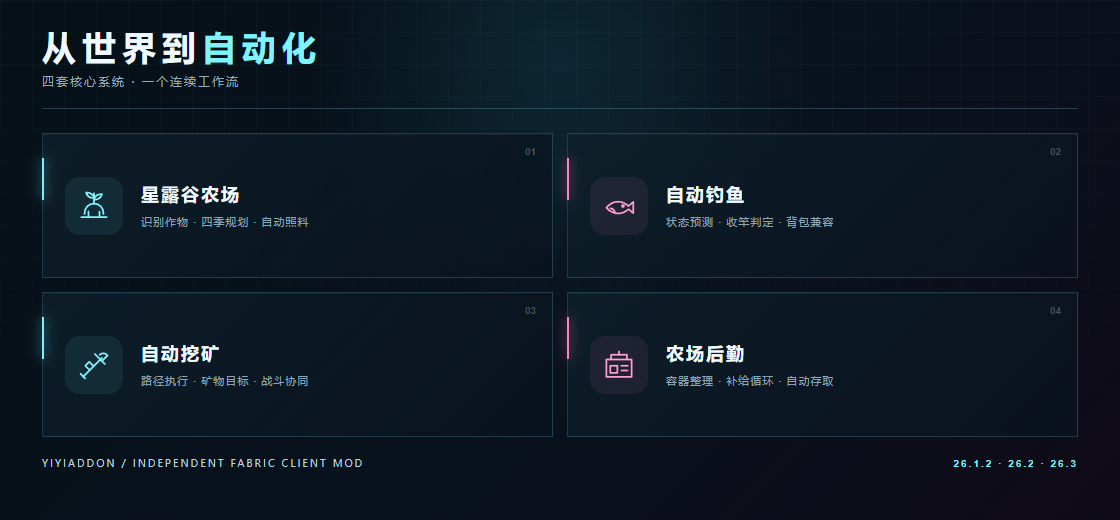
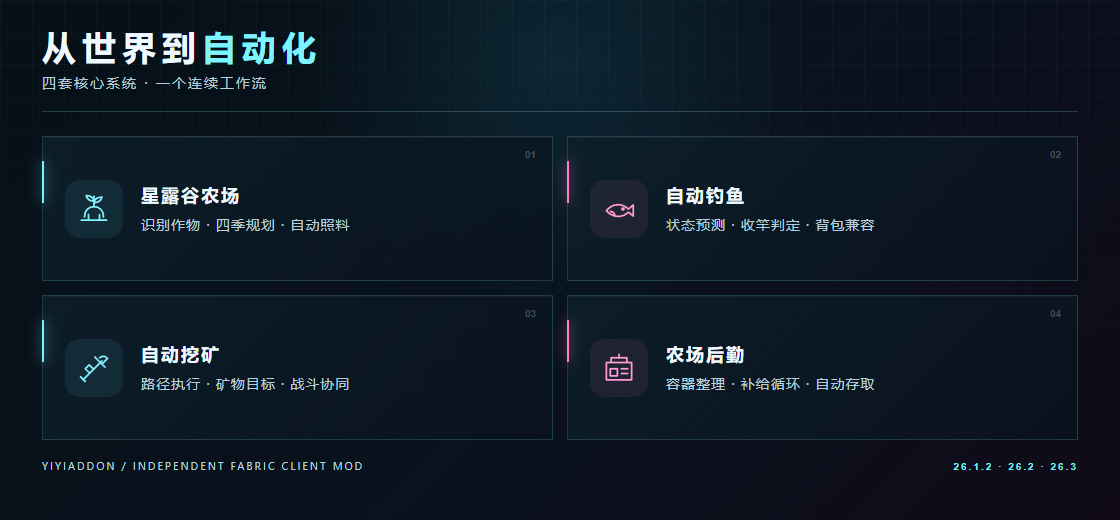
更新首页与 1.21.11 适配预告

diff --git a/功能指南.md b/功能指南.md
@@ -1,12 +1,32 @@
 # 功能指南
 
-![yiyiaddon](展示资源/homepage-20261023/brand.svg?v=1.1-3a1350d9)
+![核心系统概览](展示资源/yiyiaddon-1.0-beta4-cover-2d.png)
 
-这里介绍主要功能与使用方式。先按游戏版本安装，再在目标服务器配置和验证；各模块的前置条件以游戏内说明为准。
+概念图用于介绍功能，不是实机截图。具体设置和当前限制以游戏内模块说明为准。
 
-**下载范围**：当前正式版 1.1 提供 Minecraft 26.1.2、26.2、26.3 三个独立 JAR；配套 Fabric API、运行环境与限制见[正式发布页](https://github.com/fxjcangku/yiyiaddon/releases/latest)。1.2 目前仅有更新预告。
+**版本范围**：1.0 支持 Minecraft 26.1.2、26.2 与 26.3，三线均为正常维护，各自使用对应安装包；配套 Fabric API 与下载状态见[版本与兼容](版本说明.md)。
 
-本页通知栏和附魔场景的既有验证记录对应 Beta9.1 的 26.1.2 / 26.2 单人客户端与最终安装包，不扩展为 26.3 的验收记录；原服务器业务和长期挂机未验。
+本页通知栏和附魔场景的验证记录来自 Beta9.1 阶段的 26.1.2 / 26.2 单人客户端与最终安装包，正式版 1.0 沿用这些结果；不扩展为 26.3 的验收记录，原服务器业务和长期挂机未验。
+
+## 手动记录问题日志（2026-10-26 本地交付包）
+
+每个模块都可以用自己的指令开启、停止取证，格式与星露谷农场一致。请分两次输入：先开始记录，复现问题，再停止保存。
+
+| 模块 | 开始记录 | 停止并保存 |
+| --- | --- | --- |
+| 星露谷农场 | `.stardew 取证 开始` | `.stardew 取证 停止` |
+| 星露谷钓鱼 | `.fish 取证 开始` | `.fish 取证 停止` |
+| 自动挖矿（含种子挖矿） | `.wk 取证 开始` | `.wk 取证 停止` |
+| 自动附魔 | `.fumo 取证 开始` | `.fumo 取证 停止` |
+| 自动找箱 | `.autochest 取证 开始` | `.autochest 取证 停止` |
+
+其余模块同样在原指令后加 `取证 开始` 或 `取证 停止`；没有原指令的模块使用模块 ID，可在 `.help` 查看并用 Tab 补全。若已修改客户端指令前缀，使用自己的前缀。
+
+记录开关不改变模块开关。模块未启用时也可以先开始取证，再手动开启模块复现。停止后等待文件保存回执：聊天的服务器信息区域会显示 ZIP 文件名和可点击的 `【日志目录】`。只有成功写出文件才显示保存成功；取证提示是本地消息，不会发给其他玩家。
+
+将整个 ZIP 私下反馈。包内含中文摘要、版本与会话信息、详细事件：可对照任务阶段、目标、重试、扫描结果、补水、移动输入、视角、碰撞、路径、背包与菜单，以及发送动作和服务器实际反馈。请求已发送不等于服务器已完成；摘要没有失败文字也不表示一定没有 Bug。日志有容量与截断提示，密码及认证参数隐藏，服务器、坐标和相关物品仍会保留。
+
+普通模块日志在游戏实例的 `logs/module-traces/<模块ID>/`，农场仍在 `StardewFarm/debug/farm/`。旧钓鱼专用 debug 等入口继续保留。本节对应本地交付包，尚未替换公开下载附件。
 
 ## 新版界面与目标选择
 
@@ -14,26 +34,32 @@
 
 默认按 **G** 打开主配置，已改键时使用自己的快捷键。首次打开新版主配置时提供导览，保留全部业务配置；无需删除文件或重新设置所有目标。页签、折叠与滚动位置只在本次客户端启动中记忆，重启后重新打开。
 
-**首页本次会话**显示主手、副手的物品 ID 和服务器自定义 ID，点击对应项复制完整代码，长内容可悬停查看；空手或没有自定义 ID 时不复制占位文字。XYZ 仅用空格分隔三个坐标，例如 `10 72 10`，点击后可直接粘贴。双手读数随当前物品更新，只在本地显示。
+**1.0 已发布：首页本次会话**增加主手、副手的物品 ID 和服务器自定义 ID，点击对应项复制完整代码，长内容可悬停查看；空手或没有自定义 ID 时不复制占位文字。XYZ 仅用空格分隔三个坐标，例如 `10 72 10`，点击后可直接粘贴。双手读数随当前物品更新，只在本地显示。
 
 分类图标卡片用于物品、方块、实体、装备、附魔书和服务器资源目标。按分类、用途或品质浏览，也可搜索；候选与已选直接切换。单选移除当前项后再换，多选批量仅作用于当前结果。旧目标失效后仍可从已选中移除。
 
 作物与种子分别显示真实图标和说明。服务器图标缺失时会提示，不用载体外观代替。模块运行中先停止再修改任务目标，旧弹窗也会复核当前资源与任务状态。
 
-## 聊天增强
+## 聊天增强（1.1 待验收）
 
-正式版 1.1 加入聊天分类与快捷指令。服务器信息和玩家消息分区显示，可按全部、附近、私聊、@我筛选，也可搜索消息；关闭聊天后仍能看到两区的新消息提示，并分别调整位置。
+聊天中的服务器信息和玩家消息分别显示在有边框的区域内。打开聊天后，可查看「全部」「附近」「私聊」「@我」，或使用搜索查找消息；这些按钮只筛选查看内容，实际发送目标在面板底部选择。关闭聊天后，两类提示仍显示全部分组的新消息，不沿用刚才的查看筛选。
 
-- **快捷指令**：自定义名称、物品图标与顺序，每条独立绑定按键；点击或按键直接执行。
-- **消息与记录**：支持按服配置定时消息、关键词回复；聊天记录按服务器和账号保留，重启后可恢复，也可关闭保留或清理。
-- **设置入口**：聊天框的「设置」分为常用、聊天频道、私聊与联系人、快捷指令、自动消息、外观与兼容六类。
-- **本服配置**：频道命令、联系人与提示位置按服务器保存；命令是否可用以当前服务器支持为准。
+服务器信息使用红色，玩家消息使用绿色，时间戳跟随所属分组并显示到秒。头像放在姓名前，自动补充的头像位于 `<姓名>` 等括号外，时间戳前不留空栏；姓名与消息保留原有颜色，自己的发言增加深红背景。默认采用深色少女粉主题，也可切换浅色主题，已有主题选择继续保留。
 
-本节以 [正式版 1.1 发布说明](https://github.com/fxjcangku/yiyiaddon/releases/tag/v1.1) 为准。[1.2 预告](https://github.com/fxjcangku/yiyiaddon/releases/tag/v1.2-preview) 中的后续改进尚未提供正式安装包。
+- **调整布局**：拖动标题移动面板，拖动边缘或角落缩放。在「设置 → 常用 → 调整提示位置」中，可分别拖动关闭聊天后的服务器、玩家提示；保存到当前服务器，取消则保留原位置。
+- **设置频道**：进入「聊天频道」，分别配置公屏、附近或额外频道。按本服规则选择「先切换频道」或「每条加命令」；切换方式会先填入命令，仍需按 Enter 确认。没有附近频道时无需配置，私聊可单独设置；未配置公屏切换命令时，发送到服务器当前频道。
+- **管理私聊**：在「私聊与联系人」设置本服命令与收件人，使用收藏和最近联系人选择对象；查看私聊分组不会替你改变发送目标。
+- **添加快捷指令**：进入「快捷指令」，填写名称和一条以 `/` 开头的命令，选择物品图标，并为这一条单独绑定按键后保存。最多保存 12 条，支持编辑、排序和删除；前三条常驻快捷栏，顶部入口可查看全部。
+- **直接执行**：点击快捷按钮，或在游戏中使用该指令的绑定键，无需再按 Enter。执行保留已有聊天草稿与发送目标；服务器是否接受命令、是否完成操作，以实际响应为准。
+- **恢复默认**：设置顶栏提供确认复位，覆盖聊天显示、布局和本服频道、命令、识别设置；其他服务器配置、消息与联系人保留。五个设置分类分别为常用、聊天频道、私聊与联系人、快捷指令、外观与兼容。
+
+频道、私聊、快捷指令与关闭后的提示位置按服务器保存。不同服务器的命令并不通用，应先确认本服用法再填写；兼容表仅识别已安装模组及版本，不代表所有聊天插件均已验证。当前章节为 1.1 验收准备，正式下载与支持范围以发布页最终附件为准；三条版本线维护不等于三条版本线均公开发布。
 
 ## 模块播报与统计
 
 自动模块消息集中进入右下角面板，不再刷聊天；普通玩家和服务器聊天照常显示。默认「精致窄形」，也可选择「横向状态栏」或「精致方形」。带图标的模块按钮用于切换查看，当前任务、模式和物品明细在同一处；主面板只显示简短状态，不铺点位坐标长串。
+
+**1.2 预告**：HUD 相关设置与详情统一参照 HUD 总设置，使用原版真实图标、用途分区和可滚动正文。模块播报记录分为“播报记录”和“运行统计”：前者组合筛选来源、等级、结果与关键词，后者分别查看本轮小结和本服累计。指标选择、快捷操作及玩家、实体、装备、作物详情共用同一工作台，窗口变窄时自动重排，保留搜索草稿与阅读位置。当前仍为预告，以实际安装版本为准。
 
 - **查看与调整**：约 8 秒无新播报后整个面板隐藏，新播报或打开聊天框后恢复。打开聊天框才能拖动、缩放，绿色提示在面板内部；窗口和 GUI 大小变化后自动适配，深浅色跟随主主题。
 - **通知记录**：近期最多两条，短时重复合并；打开“记录”可按全部、成功、失败、停机筛选，长文滚动查看并复制完整内容。关闭显示总开关后，聊天中的“显示通知栏”可恢复。
@@ -64,9 +90,21 @@
 
 虚空模式取消丢弃某种保留材料后，可配置对应专用箱，默认攒到 32 个卸货；附魔瓶不按等级分箱，保留自身数据，不可堆叠时分别占格。穿戴与副手不参与卸货，自定义鞘翅留在背包。
 
-### 待发布功能
+### 虚空地图验证码（待发布）
 
-开发中的功能不代表当前正式安装包已经提供。下一版公开进展与验证范围见 [1.2 更新预告](https://github.com/fxjcangku/yiyiaddon/releases/tag/v1.2-preview)，可下载功能与安装条件以正式发布页为准。
+确认当前鱼竿具有本服虚空垂钓能力后，在「运行 → 虚空验证」申请解锁「虚空钓鱼绕过验证码」。默认关闭，客户端确认新批准后自动开启并保存；同次批准只自动开启一次，手动关闭或恢复默认后，刷新与重启不会反复打开。旧版已通知批准的账号保留原开关选择。它与经典小游戏、普通 Shift、岩浆 Shift 辅助及调试取证互不依赖；按实际提示与 HUD 类型区分，地图验证占手时暂停其他钓鱼动作。手动修改仍遵守本模块的配置修改开关，实际提交始终需要近期后端确认。
+
+仅关联本次服务器验证提示、主手填充地图和稳定完整像素后，才会保留大小写后台提交四位字符，同一次最多自动提交一次。不会打开聊天框、改变已有草稿或转动视角。无法可靠区分字形、大小写或粘连时不发送猜测，按通知手动处理；普通藏宝图不会触发自动提交。
+
+已确认字体按原始大小逐像素比较全部 62 个字母数字，四字均唯一匹配时可提交，保留 `0/O/Q` 的笔画与大小写差别；近似匹配仍须满足原有严格分差，不能把相似度当作正确率。
+
+地图占手期间自动钓鱼动作让出，鱼竿锁不抢回鱼竿。玩家先手动输入会取消自动提交；错误、超时或未收到确认不会自动重试。关闭开关仍可正常手动验证，调试验证码取证只负责记录，不控制正式自动验证。
+
+验证完成后等待服务器撤图还竿，核对原鱼竿、原槽和真实同步，再检查钓点、渔具、鱼饵与浮漂条件。玩家已经暂停时保持暂停；仅由撤图还竿确认操作恢复时，不据此增加龙蛋奖励。断线、死亡、换服或资源失效后按通知处理，不继续旧验证码。
+
+验证码仍占手时重新加载资源，钓鱼会停止并保留地图给你手动处理；完成验证后再重开模块，不会因为新资源已经准备好就自动抢回鱼竿。
+
+26.1.2与26.2最后完整构建、专项及各24种隔离原件正反场已完成。正确`T3v5`由客户端自动识别并通过真实聊天链提交，服务端接收一次并接受、撤图还竿、继续下一杆均有记录；`t3v5`及`T3V5`是专用负面输入，服务端拒绝。“24场通过”还包含安全不发送及保持暂停，不表示错误大小写被接受。后台、死亡/断线/换维度、重载、编号重用、人工搬物、主背包还竿、真龙蛋拾取/入箱/计数和旧延迟动作保护也逐场核对。行为测试曾临时开放单人测试环境；两线均已恢复原单人限制并真实拒启，正常模组仍只支持多人服务器钓鱼。两张首轮随机混合字符图一张候选正确但安全门拒发、另一张自动提交接受并继续下一杆，不能据少量合成图推算原服未知验证码成功率。完整小游戏HUD、真实在途容器跨验证码、开关关闭后人工正确输入的完整恢复，以及原服仍待独立验收，详见[489复盘](../../02-开发报告/项目开发报告/03-复盘/489-复盘-虚空钓鱼自动地图验证与单人闭环.md)。
 
 ## 种子挖矿
 

diff --git a/README.md b/README.md
@@ -1,5 +1,8 @@
 <p align="center">
-  <img src="展示资源/yiyiaddon-module-cover.gif" width="100%" alt="yiyiaddon 动态功能展示"><br>
+  <picture>
+    <source media="(max-width: 640px)" srcset="展示资源/yiyiaddon-module-cover-compact.gif?v=9e6e196c">
+    <img src="展示资源/yiyiaddon-module-cover.gif?v=882b56e4" width="100%" alt="yiyiaddon 动态功能展示">
+  </picture><br>
   <sub>功能概念动画；实际界面与可用功能以所安装版本及服务器支持为准。</sub>
 </p>
 
@@ -14,6 +17,18 @@
   <a href="界面预览.md"><img src="展示资源/homepage-20261023/nav-preview.svg?v=20261103-fa071503" width="160" alt="界面预览"></a>
   <a href="https://github.com/fxjcangku/yiyiaddon/issues"><img src="展示资源/homepage-20261023/nav-feedback.svg?v=20261103-74e4f117" width="160" alt="问题反馈"></a>
 </p>
+
+<!-- homepage:preview:start -->
+### 下一步 · 1.2 更新预告
+
+**仅图文预告，暂无 1.2 公开安装包。**
+
+- **星露谷农场**：作物识别、成熟判定、收割补种、分区与补给流程持续完善。
+- **操作与阅读**：可拖动的帮助面板、聊天体验与 HUD 统计继续调整。
+- **更多适配**：钓鱼、自动驱魔与不同服务器菜单的适配推进中。
+
+[查看完整 1.2 预告 →](https://github.com/fxjcangku/yiyiaddon/releases/tag/v1.2-preview) &nbsp; · &nbsp; 正式安装请使用下方 **1.1** 对应游戏版本下载。
+<!-- homepage:preview:end -->
 
 **yiyiaddon** 是一款独立的 Minecraft Fabric 客户端模组，提供农场、钓鱼、挖矿、附魔与物资管理等自动化功能，并将聊天增强、任务通知和运行统计放进统一的中文界面。不同服务器分别保存配置，具体模块按需要启用。
 
@@ -30,10 +45,16 @@
 ### 下载与安装
 
 <!-- homepage:downloads:start -->
-当前正式版 **1.1**。选择与你的 Minecraft 一致的版本，点击按钮直接下载 JAR。
+当前正式版 **1.1**。选择与你的 Minecraft 一致的版本；预告卡仅供查看，正式版按钮直接下载 JAR。
 
 <p align="center">
+<!-- homepage:fixed-port:start -->
+  <a href="https://github.com/fxjcangku/yiyiaddon/releases/tag/v1.2-preview"><img src="展示资源/homepage-20261023/preview-1.21.11.svg?v=1.1-05499771" width="260" alt="Minecraft 1.21.11 · 固定适配 · 暂无公开安装包，查看 1.2 预告"></a>
+<!-- homepage:fixed-port:end -->
   <a href="https://github.com/fxjcangku/yiyiaddon/releases/download/v1.1/yiyiaddon-1.1-26.1.2.jar"><img src="展示资源/homepage-20261023/download-26.1.2.svg?v=1.1-6950f714" width="260" alt="下载 Minecraft 26.1.2 JAR · 最新可用正式版 1.1"></a>
+</p>
+
+<p align="center">
   <a href="https://github.com/fxjcangku/yiyiaddon/releases/download/v1.1/yiyiaddon-1.1-26.2.jar"><img src="展示资源/homepage-20261023/download-26.2.svg?v=1.1-f003df1e" width="260" alt="下载 Minecraft 26.2 JAR · 最新可用正式版 1.1"></a>
   <a href="https://github.com/fxjcangku/yiyiaddon/releases/download/v1.1/yiyiaddon-1.1-26.3.jar"><img src="展示资源/homepage-20261023/download-26.3.svg?v=1.1-fda2cb6d" width="260" alt="下载 Minecraft 26.3 JAR · 最新可用正式版 1.1"></a>
 </p>
@@ -57,18 +78,6 @@
 </p>
 
 服务器资源识别为农场、钓鱼等模块提供物品与模型信息；资源包、频道命令和玩法各不相同，首次使用先按本服条件完成配置。[查看完整功能指南 →](功能指南.md)
-
-<!-- homepage:preview:start -->
-### 下一步 · 1.2 更新预告
-
-**开发进展，尚无 1.2 安装包。** 正式下载请使用上方对应游戏版本按钮。
-
-- **星露谷农场**：作物识别、成熟判定、收割补种、分区与补给流程持续完善。
-- **操作与阅读**：可拖动的帮助面板、聊天体验与 HUD 统计继续调整。
-- **更多适配**：钓鱼、自动驱魔与不同服务器菜单的适配推进中。
-
-[查看完整 1.2 预告与当前验证范围 →](https://github.com/fxjcangku/yiyiaddon/releases/tag/v1.2-preview)
-<!-- homepage:preview:end -->
 
 ### 界面与使用
 

diff --git a/界面预览.md b/界面预览.md
@@ -8,9 +8,9 @@
 
 **模块播报保留，聊天不再刷屏。** 通知统一进入右下角面板，默认采用「精致窄形」，重复合并、历史可查；当前任务、模式账目与物品明细也集中显示，用带图标的模块按钮切换。
 
-**安装包按游戏版本单独下载。** 当前公开 1.0 提供 Windows x64 的 26.1.2 / 26.2 / 26.3 包，配套 Fabric API 与下载入口见[版本与兼容](版本说明.md)。下方保留各图原有的版本与验证范围。
+**安装包按游戏版本单独下载。** 公开安装包按各自支持的游戏版本提供 Windows x64 包，配套 Fabric API 与下载入口见[版本与兼容](版本说明.md)。下方保留各图原有的版本与验证范围。
 
-**Beta9.1 候选版，尚未公开发布。** 26.1.2 / 26.2 单人客户端已验证界面交互与配置读回，本轮附魔满包、前台交接和延迟恢复场景已通过；原服务器业务、长期挂机与最终混淆安装包仍待验收。下图来自 26.2 单人客户端，模式、三个指标框、原生图标与内部绿色提示均为实际界面，数值为演示数据。
+**本页界面图为此前 26.2 开发客户端的历史采集，当前界面以实际安装版本为准。** 通知栏、附魔满包、前台交接与延迟恢复场景已在单人客户端验证；26.3 未重新逐项实机验收，原服务器业务与长期挂机仍未验证。下图来自 26.2 单人客户端，模式、三个指标框、原生图标与内部绿色提示均为实际界面，数值为演示数据。
 
 <p align="center">
   <a href="展示资源/模块播报统计-20261009/精致窄形-客户端预览.png"><img src="展示资源/模块播报统计-20261009/精致窄形-客户端预览.png" width="1200" alt="精致窄形客户端原图：挂机时长、确认附魔、成品均时三个指标框；12.6 秒/本及数量均为演示数据。"></a><br>
@@ -54,11 +54,11 @@
 
 ## 更新窗口：先看变化，再选择操作
 
-当前版本与可更新版本并排对照，下方标明适用的 Minecraft 版本，摘要按模块分组。深浅颜色随主主题，窄窗口和小高度时只滚动摘要，三个操作按钮始终留在首屏：查看说明与下载、稍后更新、跳过此版本。
+当前版本与可更新版本并排对照，下方标明适用的 Minecraft 版本，摘要按模块分组。深浅颜色随主主题，窄窗口和小高度时只滚动摘要，三个操作按钮始终留在首屏：查看说明与下载、稍后更新、跳过此版本。首页保留“检查更新”，不另设“1.2 更新预告”按钮。
 
-此窗口已完成同源控件的离屏显示与按钮检查，版本和摘要样例为演示数据，未由此验证联网检查或下载安装。Beta9.1 使用递增版本，让已装 Beta9 的客户端可识别修订；正式提示以匹配平台与游戏版本的发布包为准。
+此窗口已完成同源控件的离屏显示与按钮检查，版本和摘要样例为演示数据，未由此验证联网检查或下载安装。示例版本号采集自 Beta9.1 阶段；当前正式版和适用游戏版本以首页及真实发布附件为准。
 
-首次安装仅自动开启服务器检测与自动重生；其他模块按需要手动启用，已有玩家保存的开关继续保留。
+首次安装自动开启服务器检测、自动重生与实体信息；其他模块按需要手动启用，已有玩家保存的开关继续保留。
 
 ## 分类列表：自由摆放，位置保存
 

diff --git a/安装指南.md b/安装指南.md
@@ -4,6 +4,8 @@
 
 [下载最新正式版](https://github.com/fxjcangku/yiyiaddon/releases/latest)，或在[首页下载区](README.md#下载与安装)点击对应游戏版本卡片，直接取得该线最新可用的 JAR。预告和测试版不会替换正式安装包。
 
+**1.21.11 目前仅为固定适配预告，暂无公开安装包；本页安装步骤适用于已发布的正式 JAR。**
+
 ## 1. 准备环境
 
 公开安装包面向 **Windows x64**。当前维护的游戏版本使用 Java 25；Fabric Loader、Fabric API 的具体版本及支持限制以对应正式发布页为准。三个游戏版本必须使用各自对应的安装包。
@@ -20,7 +22,7 @@
 
 默认按 **G** 打开或关闭模组界面；若已修改「设置 → GUI 快捷键」，请使用自己的绑定。
 
-首次安装仅默认开启**服务器检测、自动重生**；其他业务模块按需启用。更新已有实例时保留原先保存的开关，不会把玩家关闭的模块重新打开。各模块的通知显示默认开启，与业务模块是否启动是两回事。
+首次安装默认开启**服务器检测、自动重生、实体信息**；其他业务模块按需启用。更新已有实例时保留原先保存的开关，不会把玩家关闭的模块重新打开；从未改动过实体信息的旧档升级后会按新默认开启，手动关闭过的仍保持关闭。各模块的通知显示默认开启，与业务模块是否启动是两回事。
 
 打开模组界面，在模块列表中点击需要的模块一次，右侧即可查看完整配置；复杂模块的设置与点位位于当前详情的内部页签，有使用说明的模块与设置页进入后自动在配置旁边展开，可当次收起，两边独立滚动。选择物品时在当前面板的弹窗中搜索和添加；需要世界选点时暂时回到游戏，确认后重新打开仍回到原模块。遇到缺少点位、物品或其他条件的提示，先补齐提示中的项目，不要反复点击启动。
 

diff --git a/版本说明.md b/版本说明.md
@@ -4,6 +4,7 @@
 
 - 26.1.2、26.2、26.3 必须使用各自对应的 JAR，不能混装。
 - [首页下载卡片](README.md#下载与安装)自动指向对应游戏版本最新可用的正式 JAR。某条线没有新包时保留其实际可用版本，不用另一条线的安装包替代。
+- Minecraft **1.21.11** 为固定适配预告，当前暂无公开安装包；一次适配后冻结，不跟随日常更新。不能使用 26.x 安装包代替。
 - 发布预告与测试版不算正式安装包，日常下载优先选择正式版。
 - 公开安装包为混淆 JAR，直接放入 `mods`；Fabric API 需按对应发布页单独安装。
 - 支持范围、运行环境与已知限制以对应 JAR 所属发布页为准，不从更高模组版本号推断兼容性。
